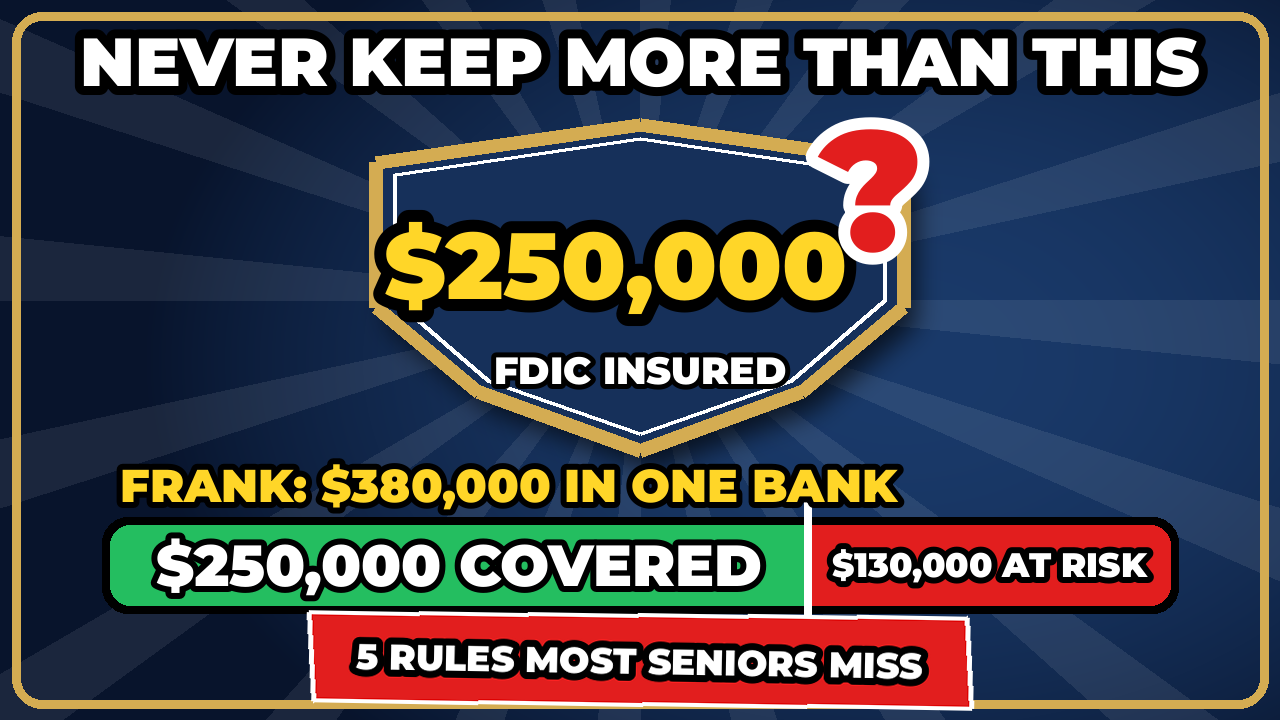
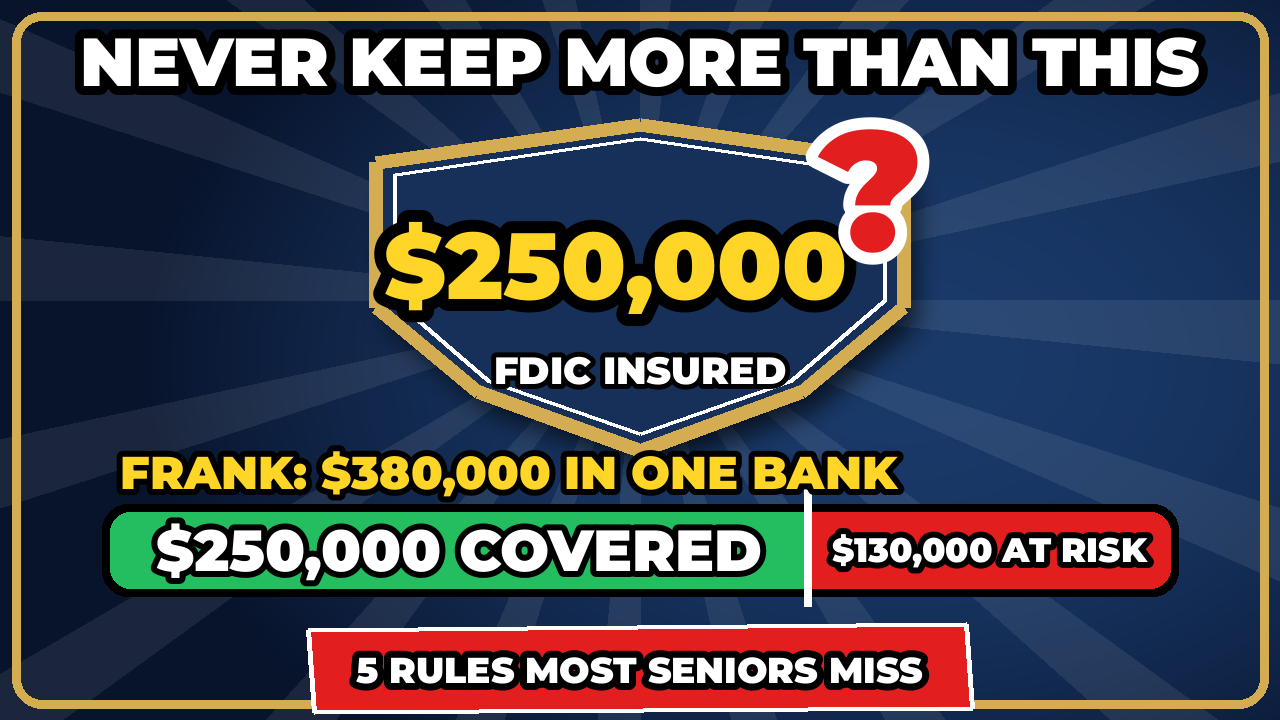
Video 11: ritocco miniatura B
Claude-Session: https://claude.ai/code/session_0149sqso4Wb5FCaN2KkmLseu

Changed region(s): [[0.0625, 0.6111, 0.9375, 1.0]]

diff --git a/money_backstory/code/thumbs_video11.py b/money_backstory/code/thumbs_video11.py
@@ -127,15 +127,15 @@ def B():
     d.text((cx + 232, cy - 100), "?", font=P(170, True), fill=RED, anchor="mm", stroke_width=12, stroke_fill=WHITE)
     d.text((cx, cy + 80), "FDIC INSURED", font=P(38, True), fill=WHITE, anchor="mm", stroke_width=5, stroke_fill=BLK)
     # barra copertura
-    x0, x1, y0, y1 = 110, 1170, 525, 605; lim = x0 + (x1 - x0) * 250 / 380
+    x0, x1, y0, y1 = 110, 1170, 512, 588; lim = x0 + (x1 - x0) * 250 / 380
     d.rounded_rectangle([x0 - 8, y0 - 8, x1 + 8, y1 + 8], radius=26, fill=BLK)
     d.rounded_rectangle([x0, y0, lim, y1], radius=20, fill=GRN); d.rectangle([lim - 20, y0, lim, y1], fill=GRN)
     d.rounded_rectangle([lim, y0, x1, y1], radius=20, fill=RED); d.rectangle([lim, y0, lim + 20, y1], fill=RED)
-    d.line([lim, y0 - 34, lim, y1 + 34], fill=WHITE, width=8)
+    d.line([lim, y0 - 26, lim, y1 + 18], fill=WHITE, width=8)
     d.text(((x0 + lim) / 2, (y0 + y1) / 2), "$250,000 COVERED", font=fit_font(d, "$250,000 COVERED", lim - x0 - 40, 58, True), fill=WHITE, anchor="mm", stroke_width=6, stroke_fill=BLK)
     d.text(((lim + x1) / 2, (y0 + y1) / 2), "$130,000 AT RISK", font=fit_font(d, "$130,000 AT RISK", x1 - lim - 30, 56, True), fill=WHITE, anchor="mm", stroke_width=6, stroke_fill=BLK)
     d.text((x0 + 10, y0 - 40), "FRANK: $380,000 IN ONE BANK", font=P(46, True), fill=YEL, anchor="lm", stroke_width=6, stroke_fill=BLK)
-    banner(im, "5 RULES MOST SENIORS MISS", (330, 628, 950, 690), fill=RED, size=56, tilt=-1)
+    banner(im, "5 RULES MOST SENIORS MISS", (330, 640, 950, 696), fill=RED, size=52, tilt=0)
     return im.convert("RGB")
 
 
